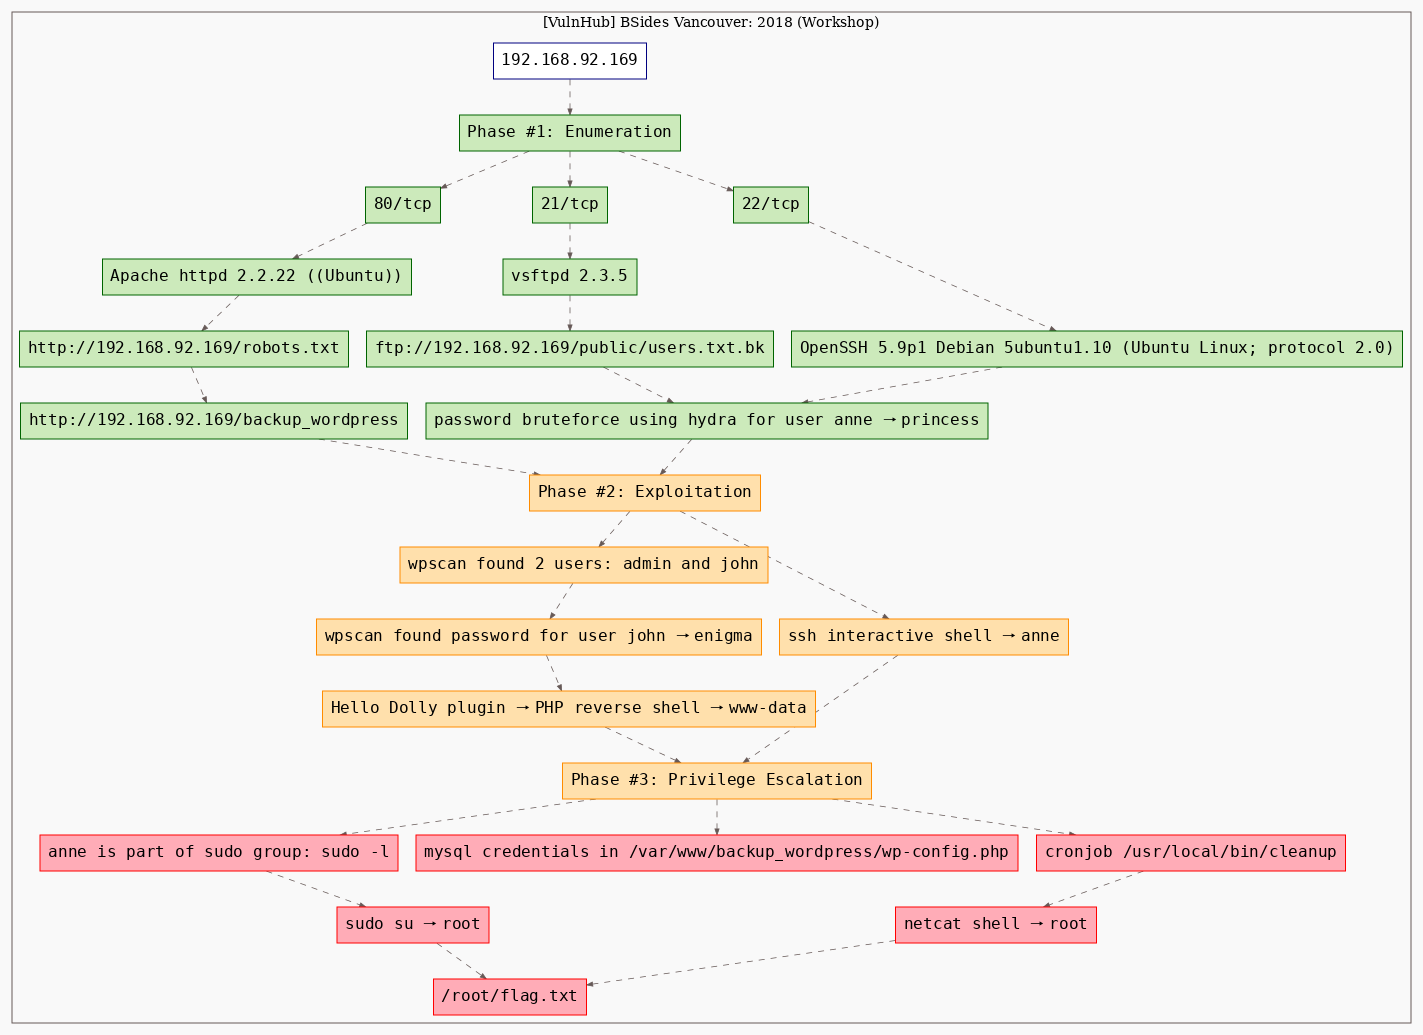
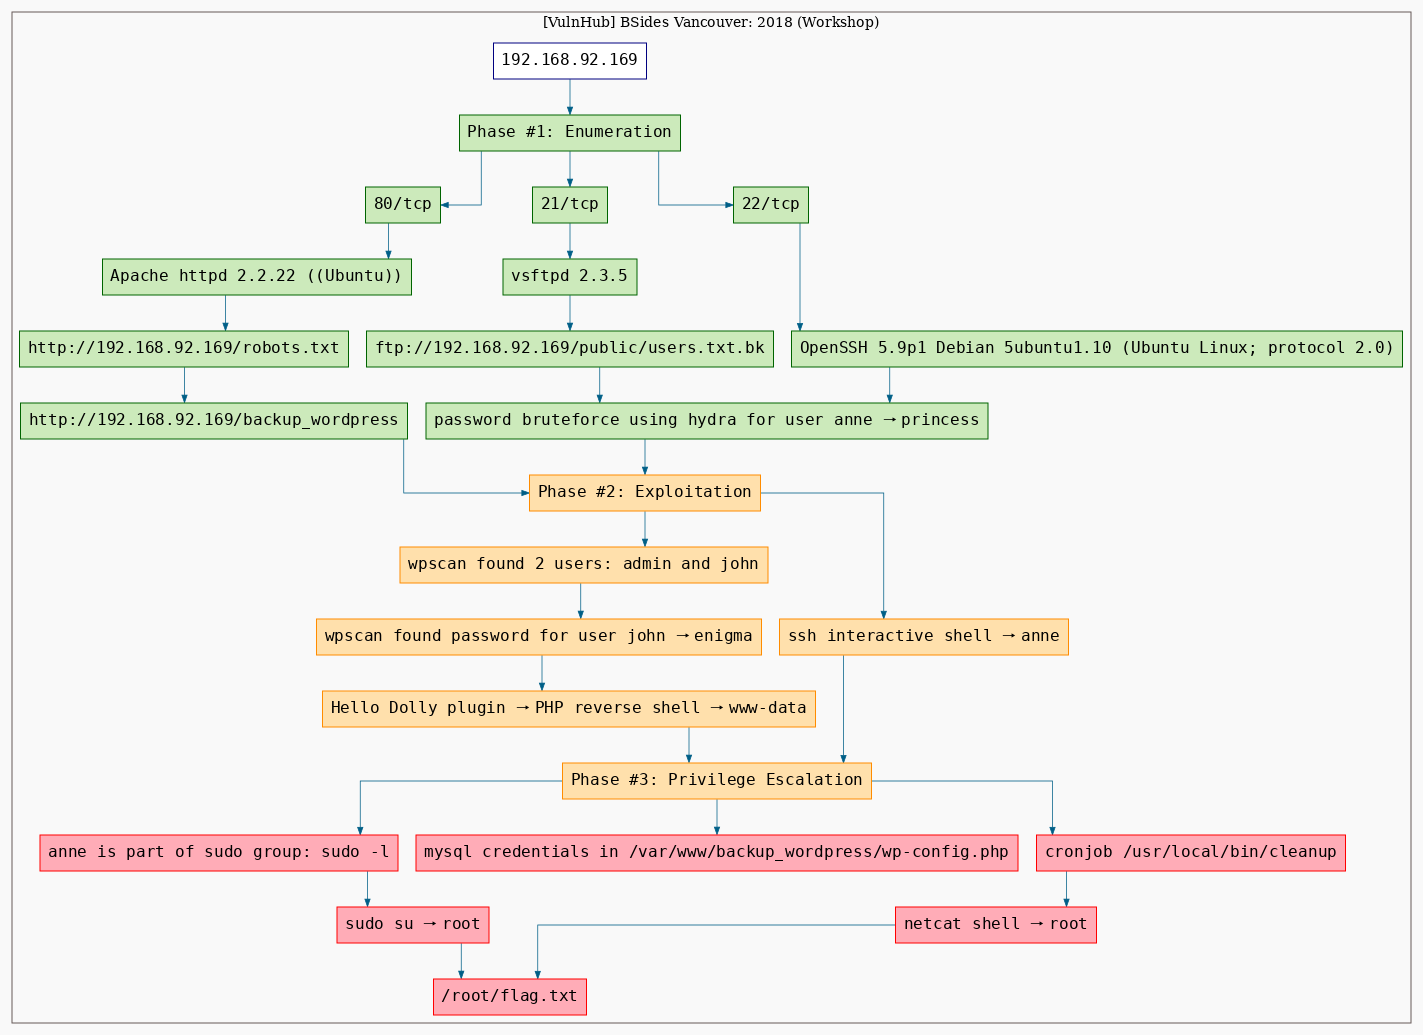
💫  bugger

diff --git a/yml2dot.py b/yml2dot.py
@@ -51,7 +51,7 @@ class YML2DOT:
       "colorborder": "#665957",
       "colorlink": "#85285d",
       "colorbg": "#f9f9f9",
-      "coloredge": "#665957",
+      "coloredge": "#005f87",
       "colornode": "#FFFFFF",
       "colorwriteuproot": "",
     }
@@ -173,9 +173,9 @@ class YML2DOT:
     dotgraph = []
     dotgraph.append("digraph G {")
     dotgraph.append("  rankdir=LR;" if self.config["rankdirlr"] else "  #rankdir=LR;")
-    dotgraph.append("  nodesdictep=1.0; splines=\"line\"; K=0.6; overlap=scale; fixedsize=true; resolution=72; bgcolor=\"%s\"; outputorder=\"edgesfirst\";" % (self.config["colorbg"]))
+    dotgraph.append("  nodesdictep=1.0; splines=\"ortho\"; K=0.6; overlap=scale; fixedsize=true; resolution=72; bgcolor=\"%s\"; outputorder=\"edgesfirst\";" % (self.config["colorbg"]))
     dotgraph.append("  node [fontname=\"courier\" fontsize=%s shape=box width=0.25 fillcolor=\"white\" style=\"filled,solid\"];" % (self.config["fontsize"]))
-    dotgraph.append("  edge [style=dashed color=\"%s\" penwidth=0.75 arrowsize=0.6];" % (self.config["coloredge"]))
+    dotgraph.append("  edge [style=solid color=\"%s\" penwidth=0.75 arrowsize=0.75];" % (self.config["coloredge"]))
     dotgraph.append("")
     dotgraph.extend(["  %s" % (x) for x in self.nodes])
     dotgraph.append("")
